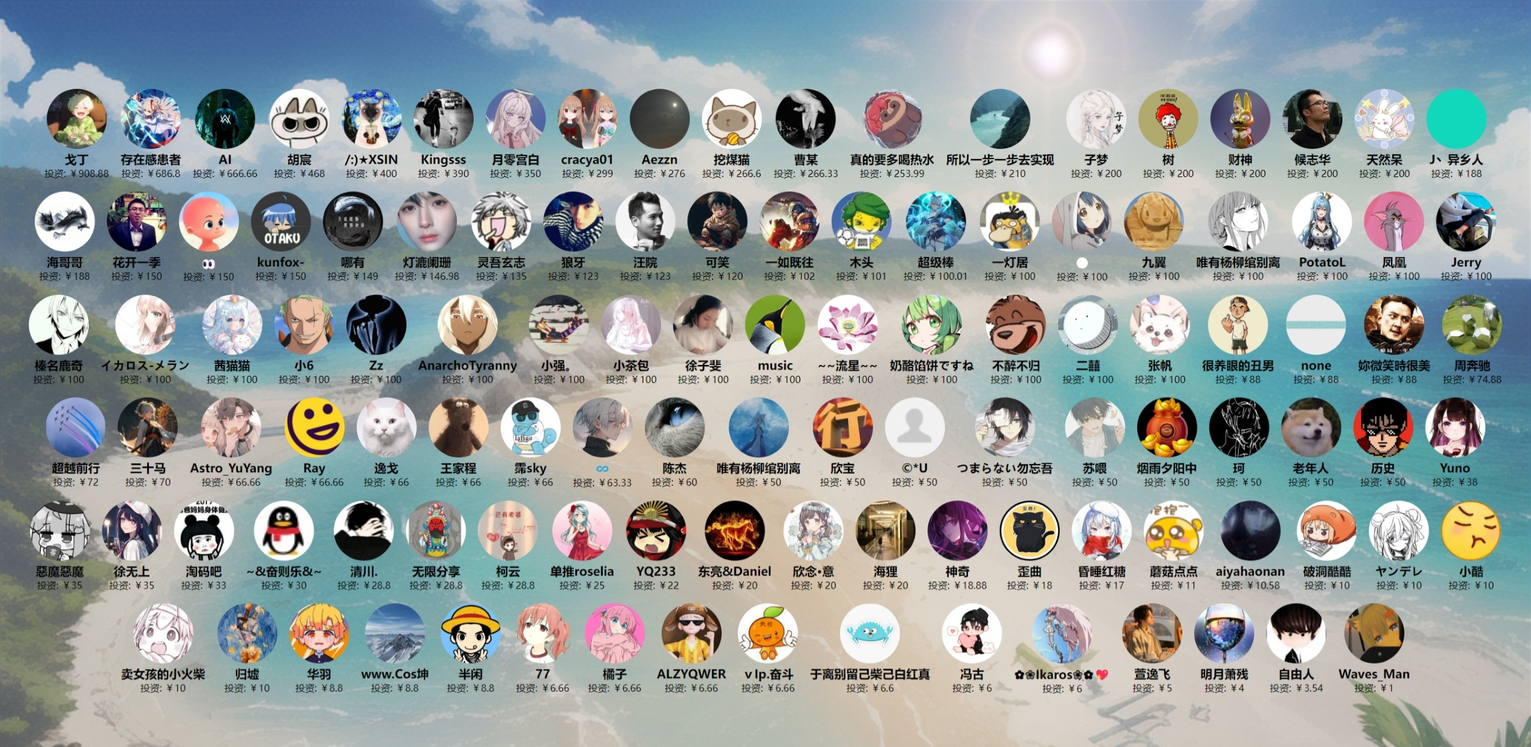
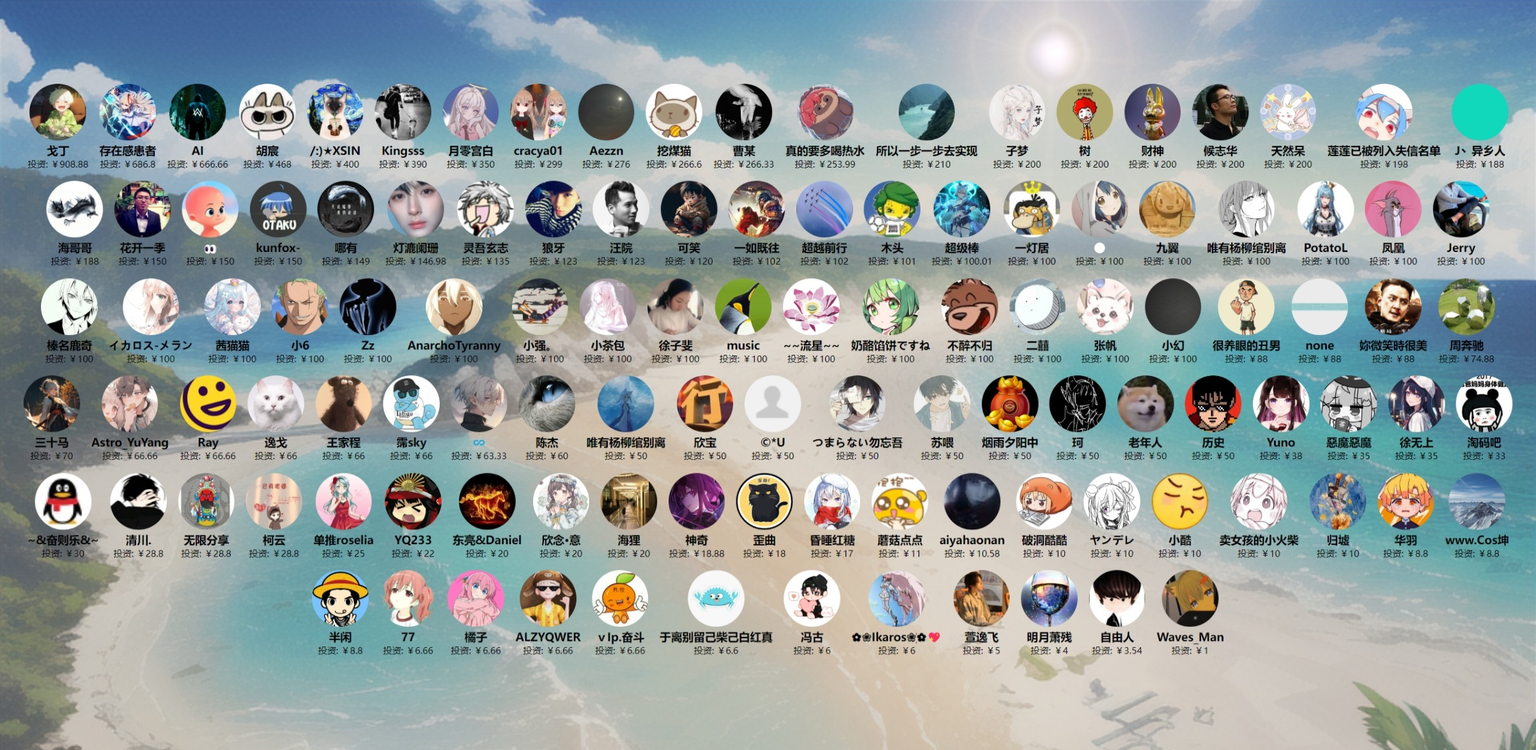
更新投资人

diff --git a/docs/投资人/index.html b/docs/投资人/index.html
@@ -142,6 +142,11 @@
             amount: "￥200"
         },
         {
+            name: "莲莲已被列入失信名单",
+            avatar: "https://images.cnblogs.com/cnblogs_com/ikaros-521/2328032/o_240513030341_QQ%E5%9B%BE%E7%89%8720240513110257.jpg",
+            amount: "￥198"
+        },
+        {
             name: "J丶异乡人",
             avatar: "https://images.cnblogs.com/cnblogs_com/ikaros-521/2328032/o_230920161039_111.jpg",
             amount: "￥188"
@@ -199,6 +204,11 @@
         {
             name: "一如既往",
             avatar: "https://images.cnblogs.com/cnblogs_com/ikaros-521/2328032/o_230719123315_%E4%B8%80%E5%A6%82%E6%97%A2%E5%BE%80.jpg",
+            amount: "￥102"
+        },
+        {   
+            name: "超越前行",
+            avatar: "https://images.cnblogs.com/cnblogs_com/ikaros-521/2328032/o_240219055018_QQ%E5%9B%BE%E7%89%8720240219134904.jpg",
             amount: "￥102"
         },
         {
@@ -322,6 +332,11 @@
             amount: "￥100"
         },
         {
+            name: "小幻",
+            avatar: "https://images.cnblogs.com/cnblogs_com/ikaros-521/2328032/o_240513024413_QQ%E5%9B%BE%E7%89%8720240513104122.jpg",
+            amount: "￥100"
+        },
+        {
             name: "很养眼的丑男",
             avatar: "https://images.cnblogs.com/cnblogs_com/ikaros-521/2328032/o_230722162732_QQ%E5%9B%BE%E7%89%8720230723000544.jpg",
             amount: "￥88"
@@ -340,11 +355,6 @@
             name: "周奔驰",
             avatar: "https://images.cnblogs.com/cnblogs_com/ikaros-521/2328032/o_240209134012_QQ%E5%9B%BE%E7%89%8720240209213516.jpg",
             amount: "￥74.88"
-        },
-        {   
-            name: "超越前行",
-            avatar: "https://images.cnblogs.com/cnblogs_com/ikaros-521/2328032/o_240219055018_QQ%E5%9B%BE%E7%89%8720240219134904.jpg",
-            amount: "￥72"
         },
         {
             name: "三十马",
